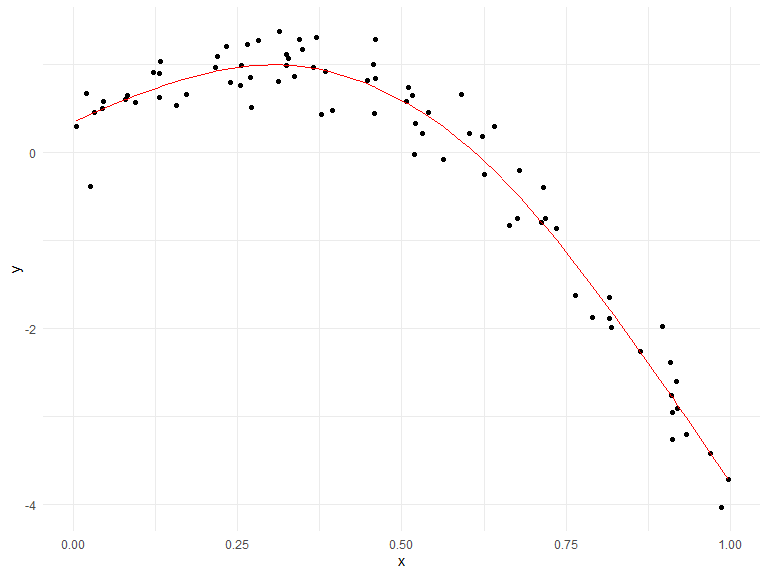
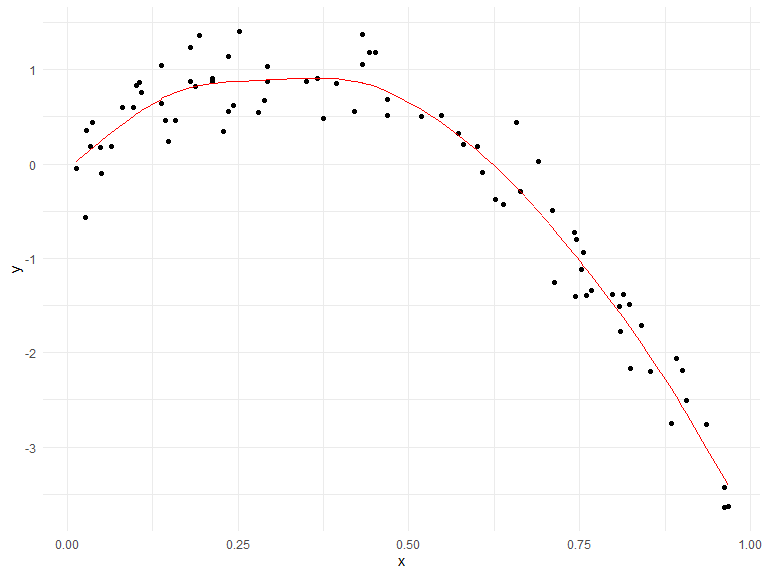
finish child growth example

diff --git a/cross_validation.md b/cross_validation.md
@@ -85,19 +85,19 @@ better; training dataset has too much stuff
 rmse(linear_mod, test_df)
 ```
 
-    ## [1] 0.6644055
+    ## [1] 0.7912499
 
 ``` r
 rmse(smooth_mod, test_df)
 ```
 
-    ## [1] 0.2798716
+    ## [1] 0.3449995
 
 ``` r
 rmse(wiggly_mod, test_df)
 ```
 
-    ## [1] 0.3392617
+    ## [1] 0.3447688
 
 ## Do this all using `modelr`
 
@@ -119,16 +119,16 @@ cv_df %>% pull(train) %>% .[[1]] %>%
     ## # A tibble: 79 x 3
     ##       id      x      y
     ##    <int>  <dbl>  <dbl>
-    ##  1     1 0.345   1.29 
-    ##  2     2 0.986  -4.04 
-    ##  3     3 0.313   1.38 
-    ##  4     5 0.863  -2.27 
-    ##  5     7 0.0447  0.502
-    ##  6     8 0.790  -1.87 
-    ##  7    10 0.603   0.207
-    ##  8    11 0.372   0.556
-    ##  9    12 0.735  -0.868
-    ## 10    14 0.395   0.471
+    ##  1     1 0.745  -0.800
+    ##  2     2 0.0686  0.986
+    ##  3     3 0.767  -1.34 
+    ##  4     5 0.591   0.389
+    ##  5     6 0.657   0.438
+    ##  6     7 0.451   1.18 
+    ##  7     9 0.906  -2.51 
+    ##  8    10 0.0277  0.352
+    ##  9    12 0.823  -1.49 
+    ## 10    13 0.289   0.671
     ## # ... with 69 more rows
 
 ``` r
@@ -203,6 +203,66 @@ Add change point term
 ``` r
 child_growth =
   child_growth %>% 
-  ggplot(aes(x = weight, y = armc)) + 
-  geom_point(alpha = .5)
+  mutate(weight_cp = (weight > 7) * (weight - 7))
 ```
+
+Fit models
+
+``` r
+linear_mod = lm(armc ~ weight, data = child_growth)
+pwl_mod    = lm(armc ~ weight + weight_cp, data = child_growth)
+smooth_mod = gam(armc ~ s(weight), data = child_growth)
+```
+
+Make a plot
+
+``` r
+child_growth %>% 
+  gather_predictions(linear_mod, pwl_mod, smooth_mod) %>% 
+  mutate(model = fct_inorder(model)) %>% 
+  ggplot(aes(x = weight, y = armc)) + 
+  geom_point(alpha = .5) +
+  geom_line(aes(y = pred), color = "red") + 
+  facet_grid(~model)
+```
+
+<img src="cross_validation_files/figure-gfm/unnamed-chunk-15-1.png" width="90%" />
+
+re-use my CV process – first get training / testing splits
+
+``` r
+cv_df =
+  crossv_mc(child_growth, 100) %>% 
+  mutate(
+    train = map(train, as_tibble),
+    test = map(test, as_tibble))
+```
+
+… then fit models and get RMSEs
+
+``` r
+cv_df = 
+  cv_df %>% 
+  mutate(linear_mod  = map(train, ~lm(armc ~ weight, data = .x)),
+         pwl_mod     = map(train, ~lm(armc ~ weight + weight_cp, data = .x)),
+         smooth_mod  = map(train, ~gam(armc ~ s(weight), data = as_tibble(.x)))) %>% 
+  mutate(rmse_linear = map2_dbl(linear_mod, test, ~rmse(model = .x, data = .y)),
+         rmse_pwl    = map2_dbl(pwl_mod, test, ~rmse(model = .x, data = .y)),
+         rmse_smooth = map2_dbl(smooth_mod, test, ~rmse(model = .x, data = .y)))
+```
+
+Let’s make a plot of results
+
+``` r
+cv_df %>% 
+  select(starts_with("rmse")) %>% 
+pivot_longer(
+    everything(),
+    names_to = "model", 
+    values_to = "rmse",
+    names_prefix = "rmse_") %>% 
+  mutate(model = fct_inorder(model)) %>% 
+  ggplot(aes(x = model, y = rmse)) + geom_violin()
+```
+
+<img src="cross_validation_files/figure-gfm/unnamed-chunk-18-1.png" width="90%" />
